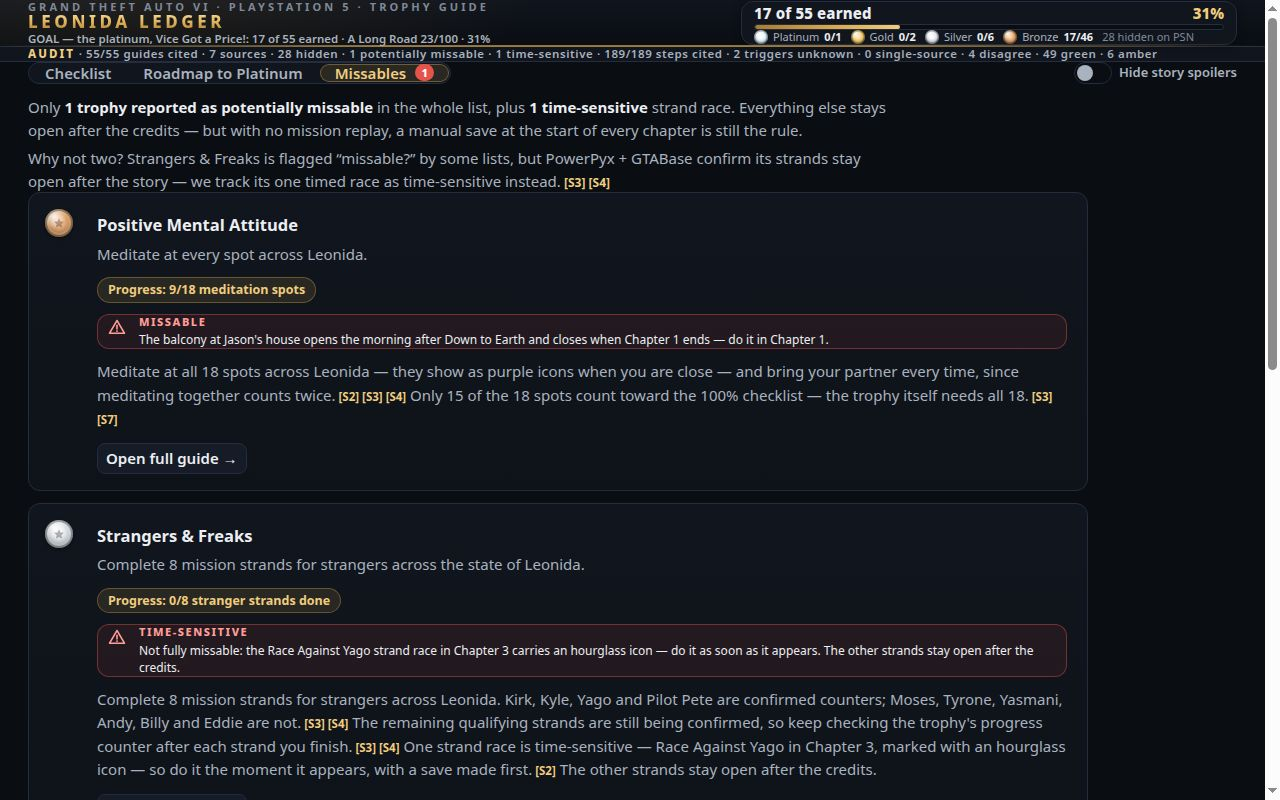
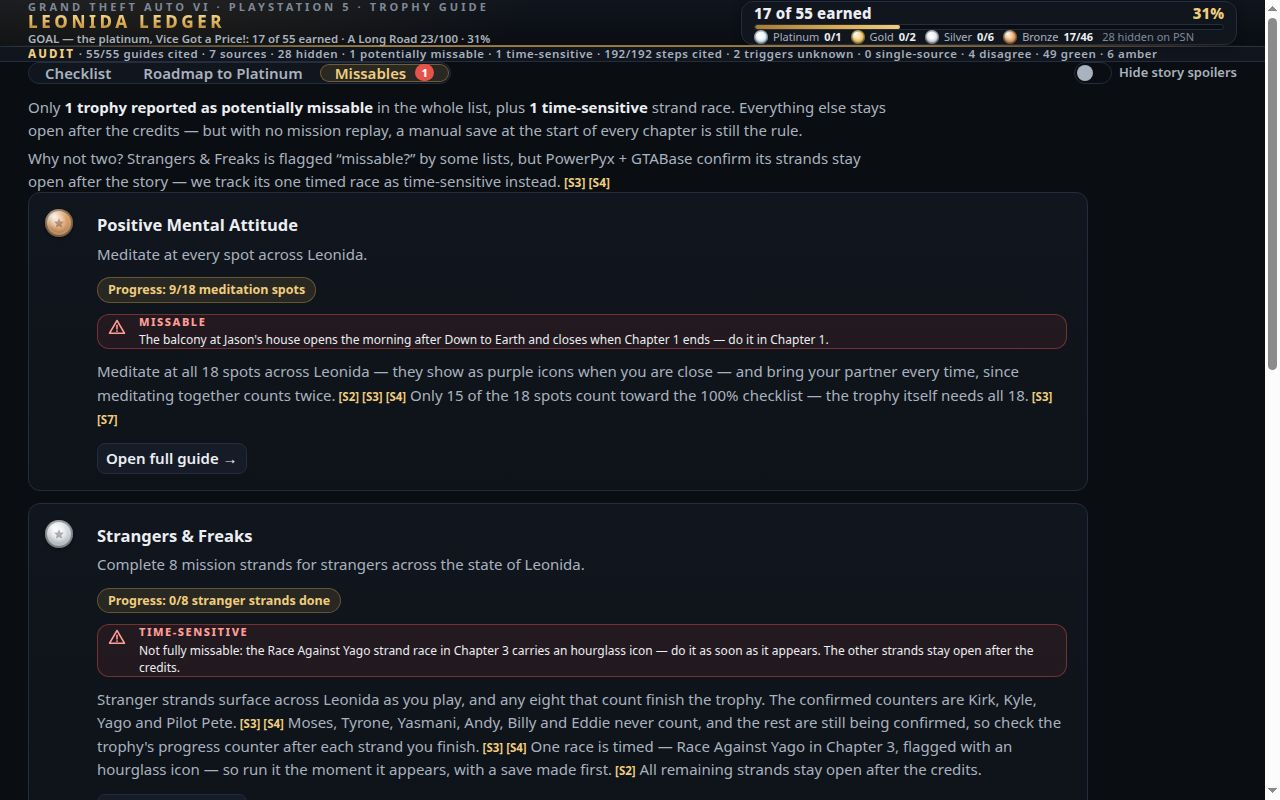
v18: YOUR COUNT label + thicker bar, PMA conclusion, S&F deepened to 6 steps (192/192)

Changed region(s): [[0.0625, 0.8438, 0.8438, 0.9688]]

diff --git a/app/app.js b/app/app.js
@@ -442,7 +442,7 @@ const STEP_CITES = {
   22: { 1: 'S2', 2: ['S3', 'S4'], 3: ['S3', 'S4'] },
   23: { 1: ['S3', 'S4'], 2: 'S7', 3: ['S3', 'S4'] },
   24: { 1: 'S4', 2: 'S7', 3: ['S3', 'S4'] },
-  25: { 1: ['S3', 'S4', 'S7'], 2: 'S2', 3: 'S7' },
+  25: { 1: ['S3', 'S4', 'S7'], 2: ['S3', 'S4'], 3: ['S3', 'S4'], 4: 'S2', 5: 'S7', 6: 'S7' },
   26: { 1: ['S3', 'S4'], 2: 'S7', 3: ['S3', 'S4'] },
   27: { 1: ['S2', 'S4'], 2: 'S4', 3: ['S3', 'S4'] },
   28: { 1: ['S2', 'S3', 'S7'], 2: ['S3', 'S7'], 3: ['S2', 'S3', 'S4'], 4: ['S2', 'S3', 'S4'], 5: ['S3', 'S4'], 6: 'S7', 7: ['S3', 'S7'] },
@@ -614,7 +614,7 @@ const UNCERTAIN_NOTES = {
   28: {
     label: 'Not pinned down yet',
     ref: ['S3', 'S4', 'S7'],
-    text: 'Whether the Chapter 1 spot is strictly required is open — the counts differ: the trophy needs 18 spots, the 100% checklist stops at 15. Do it anyway.',
+    text: 'Whether the Chapter 1 spot is strictly required is open — the trophy needs 18 spots, the 100% checklist only 15, so missing it cannot cost you A Long Road. Do it anyway.',
   },
 };
 
@@ -960,6 +960,14 @@ function counterBar(trophy) {
   const value = counterValue(trophy);
   const bar = document.createElement('div');
   bar.className = 'counter-bar';
+  // v18: the bar carries its name — a small YOUR COUNT label in
+  // the control row, the caption the rival panels print over
+  // their bars — so the control reads as a labelled tracker,
+  // not an anonymous −/+ widget.
+  const label = document.createElement('span');
+  label.className = 'counter-label';
+  label.textContent = 'YOUR COUNT';
+  bar.append(label);
   const minus = document.createElement('button');
   minus.type = 'button';
   minus.className = 'counter-btn';
@@ -978,9 +986,10 @@ function counterBar(trophy) {
   plus.setAttribute('aria-label', 'Count one more for ' + trophy.name);
   plus.addEventListener('click', () => setCounter(trophy, 1));
   bar.append(minus, readout, plus);
-  // The count as a bar as well as a number (v16): a slim gold
-  // track under the readout, filled to the same fraction — the
-  // form the rival panels use for their counters.
+  // The count as a bar as well as a number (v16): a gold track
+  // under the readout, filled to the same fraction — the form
+  // the rival panels use for their counters. v18 thickens the
+  // track (4px -> 6px) so the fill registers at a glance.
   const track = document.createElement('div');
   track.className = 'counter-track';
   const fill = document.createElement('div');

diff --git a/app/style.css b/app/style.css
@@ -745,10 +745,18 @@ main { padding: 0 28px 18px; }
   border-radius: var(--radius-s);
   padding: 0 8px;
 }
+.counter-label {
+  flex: none;
+  font-size: 9.5px;
+  font-weight: 800;
+  letter-spacing: 0.09em;
+  color: var(--gold-hi);
+  white-space: nowrap;
+}
 .counter-track {
   flex: 1 1 100%;
-  height: 4px;
-  margin: 2px 0 3px;
+  height: 6px;
+  margin: 2px 0 2px;
   background: #0a0d12;
   border: 1px solid var(--line);
   border-radius: 999px;
@@ -791,8 +799,12 @@ main { padding: 0 28px 18px; }
 /* v16: the panel's prose and steps step up half a point and
    loosen their stride (1.06 -> 1.12) — the legibility fix the
    v15 judges asked for, funded by the panel's label, box and
-   action trims so the actions row stays in frame. */
-.detail-guide { margin: 0; font-size: 11.5px; line-height: 1.12; }
+   action trims so the actions row stays in frame.
+   v18: the stride loosens once more (1.12 -> 1.15) for the
+   guide and the steps — the panel had 14px of slack left after
+   the labelled counter bar and the honesty-box rewrite, and
+   this spends ~6px of it on air between the lines. */
+.detail-guide { margin: 0; font-size: 11.5px; line-height: 1.15; }
 /* v15: the IN SHORT lead summary — the guide prose's own settings,
    with the summary's weight a step above the full text. */
 .detail-short { margin: 0; font-size: 11.5px; line-height: 1.12; font-weight: 600; color: var(--text); }
@@ -803,7 +815,7 @@ main { padding: 0 28px 18px; }
   padding-left: 30px;
   margin-bottom: 0;
   font-size: 11.5px;
-  line-height: 1.12;
+  line-height: 1.15;
 }
 .cite-ref { color: var(--gold-hi); font-weight: 700; font-size: 11.5px; }
 .detail-steps li::before {

diff --git a/app/index.html b/app/index.html
@@ -202,7 +202,7 @@
 </main>
 
 <footer class="colophon">
-  <p class="byline"><strong>Leonida Ledger</strong> — GTA VI Trophy Guide &amp; Tracker · Version 16 · Updated November 20, 2026</p>
+  <p class="byline"><strong>Leonida Ledger</strong> — GTA VI Trophy Guide &amp; Tracker · Version 18 · Updated November 20, 2026</p>
   <p class="provenance">Built on PlayStation's official trophy list: names, descriptions and grades are Sony's text, as mirrored by Exophase and PSNProfiles. Every guide in this app names its sources in its own panel.</p>
   <p><strong>Rarity.</strong> The percentage on each trophy is the share of Exophase-tracked players who had earned it when the list was read on 20 November 2026 — the day after release. Treat it as a launch-week snapshot: these figures move fast as more players start the game.</p>
   <p><strong>Sources.</strong> Guide prose and steps that come from a published launch-week guide cite Outputlag's GTA 6 Trophy List, PowerPyx's Trophy Guide &amp; Roadmap, GTABase's Trophy Guide &amp; Achievements List and KeenGamer's GTA 6 Trophy Guide &amp; Platinum Roadmap (Outputlag, PowerPyx, GTABase and KeenGamer checked 2026-11-20); the roadmap figures up top — difficulty, time, step budgets — come from PowerPyx's Trophy Guide &amp; Roadmap, cross-checked with GTABase, Outputlag and KeenGamer. Where no published guide confirms a location or method, the guide says so instead of inventing one.</p>
